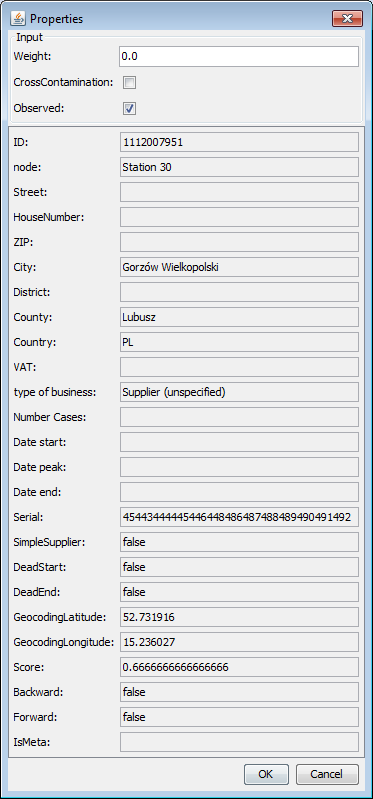
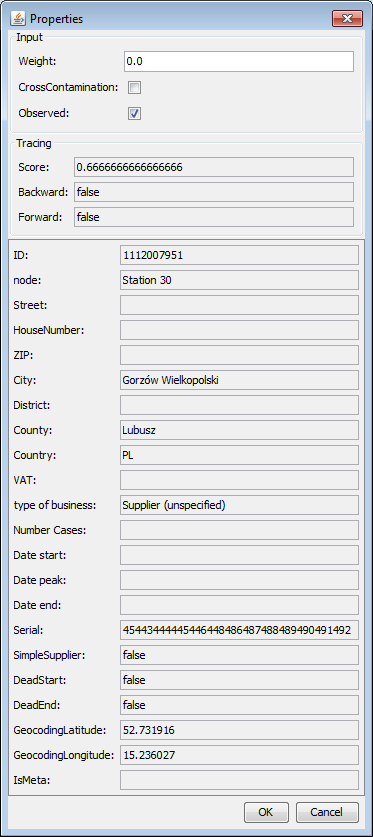
tracing_DE committed

Changed region(s): [[0.0, 0.0, 0.9732, 0.9912], [0.9732, 0.1202, 1.0, 0.1502]]

diff --git a/GitHubPages/documents/foodchainlab_tracing/tracing_DE.tex b/GitHubPages/documents/foodchainlab_tracing/tracing_DE.tex
@@ -1,0 +1,113 @@
+\documentclass{beamer}
+
+\usepackage[utf8]{inputenc}
+\usepackage{hyperref}
+
+\usetheme{Berkeley}
+\beamertemplatenavigationsymbolsempty
+\setbeamertemplate{headline}{}
+ 
+\title{Tracing in FoodChain-Lab}
+\date{}
+ 
+\begin{document}
+\maketitle
+ 
+\section{1}
+\begin{frame}
+	\begin{center}
+  		\includegraphics[height=0.6\textheight]{1.png}
+	\end{center}
+	\begin{itemize}
+		\item Importieren sie den Example Workflow von \url{https://github.com/SiLeBAT/BfROpenLabResources/raw/master/GitHubPages/workflows/Example_Workflow.zip}.
+		\item Öffnen sie den \textbf{Tracing View} per Doppelklick.
+	\end{itemize}
+\end{frame}
+
+\section{2}
+\begin{frame}
+	\begin{center}
+  		\includegraphics[height=0.6\textheight]{2.png}
+	\end{center}
+	\begin{itemize}
+		\item Im Graph sehen sie drei Ausbruchs-Stationen (rot) and zwei Stationen, an den Kreuzkontamination angenommen wird (schwarz).
+		\item Die Größe jeder Station basiert auf ihrem "Score", welcher davon abhängt welche Ausbruchs-Stationen erreicht werden können.
+	\end{itemize}
+\end{frame}
+
+\section{3}
+\begin{frame}
+	\begin{center}
+  		\includegraphics[height=0.6\textheight]{3.png}
+	\end{center}
+	\begin{itemize}
+		\item Wir werden uns nun den Trace einer einzelnen Station im Detail anschauen.
+		\item Wählen sie "PICKING" als \textbf{Editing Mode} und machen sie einen Doppelklick auf die Station im roten Kreis.
+	\end{itemize}
+\end{frame}
+
+\section{4}
+\begin{frame}
+	\begin{center}
+  		\includegraphics[height=0.6\textheight]{4.png}
+	\end{center}
+	\begin{itemize}
+		\item Ein Dialog mit allen Attributen der ausgewählten Station erscheint.
+		\item Im oberen Bereich können sie die Werte der Attribute "Weight", "CrossContamination" und "Observed" verändern.		
+	\end{itemize}
+\end{frame}
+
+\section{5}
+\begin{frame}
+	\begin{center}
+  		\includegraphics[height=0.6\textheight]{5.png}
+	\end{center}
+	\begin{itemize}
+		\item Aktivieren sie \textbf{Observed} und drücken sie \textbf{OK}.
+	\end{itemize}
+\end{frame}
+
+\section{6}
+\begin{frame}
+	\begin{center}
+  		\includegraphics[height=0.6\textheight]{6.png}
+	\end{center}
+	\begin{itemize}
+		\item Alle Stationen/Lieferungen vom Forward-Trace sind orange gefärbt and diejenigen vom Backward-Trace sind lila.
+		\item Zwei der drei Ausbruchs-Stationen sind nun orange gestreift. Das bedeutet, dass sie auch auf dem Forward-Trace sind.
+	\end{itemize}
+\end{frame}
+
+\section{7}
+\begin{frame}
+	\begin{center}
+  		\includegraphics[height=0.6\textheight]{7.png}
+	\end{center}
+	\begin{itemize}
+		\item Nun schauen wir was sich verändert, wenn wir die Kreuzkontamination der Station im roten Kreis deaktivieren.
+		\item Machen sie einen Doppelklick auf die Station.
+	\end{itemize}
+\end{frame}
+
+\section{8}
+\begin{frame}
+	\begin{center}
+  		\includegraphics[height=0.6\textheight]{8.png}
+	\end{center}
+	\begin{itemize}
+		\item Deaktivieren sie \textbf{CrossContamination} und drücken sie \textbf{OK}.
+	\end{itemize}
+\end{frame}
+
+\section{9}
+\begin{frame}
+	\begin{center}
+  		\includegraphics[height=0.6\textheight]{9.png}
+	\end{center}
+	\begin{itemize}
+		\item Das Deaktivieren der Kreuzkontamination hat den Forward-Trace der beobachteten Station ("Observed") verändert.
+		\item Nun kann die ganz linke Ausbruchs-Station nicht mehr erreicht werden.
+	\end{itemize}
+\end{frame}
+
+\end{document}

diff --git a/GitHubPages/documents/foodchainlab_tracing/tracing.tex b/GitHubPages/documents/foodchainlab_tracing/tracing.tex
@@ -84,7 +84,7 @@
   		\includegraphics[height=0.6\textheight]{7.png}
 	\end{center}
 	\begin{itemize}
-		\item Let's what happens if we deactivate cross contamination in station in the red circle.
+		\item Let's see what happens if we deactivate cross contamination in station in the red circle.
 		\item So double click on it.
 	\end{itemize}
 \end{frame}
